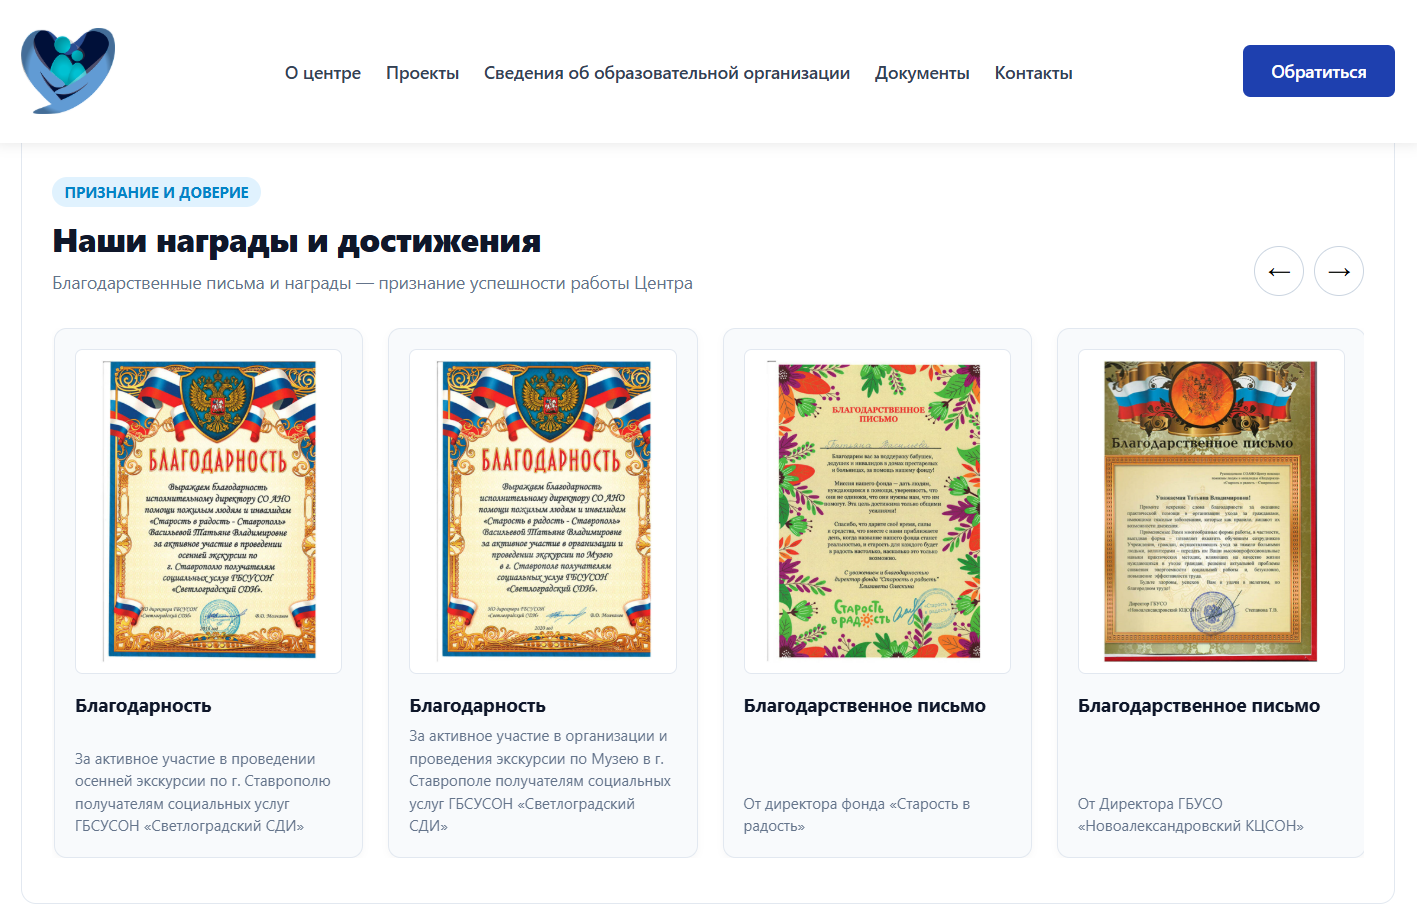
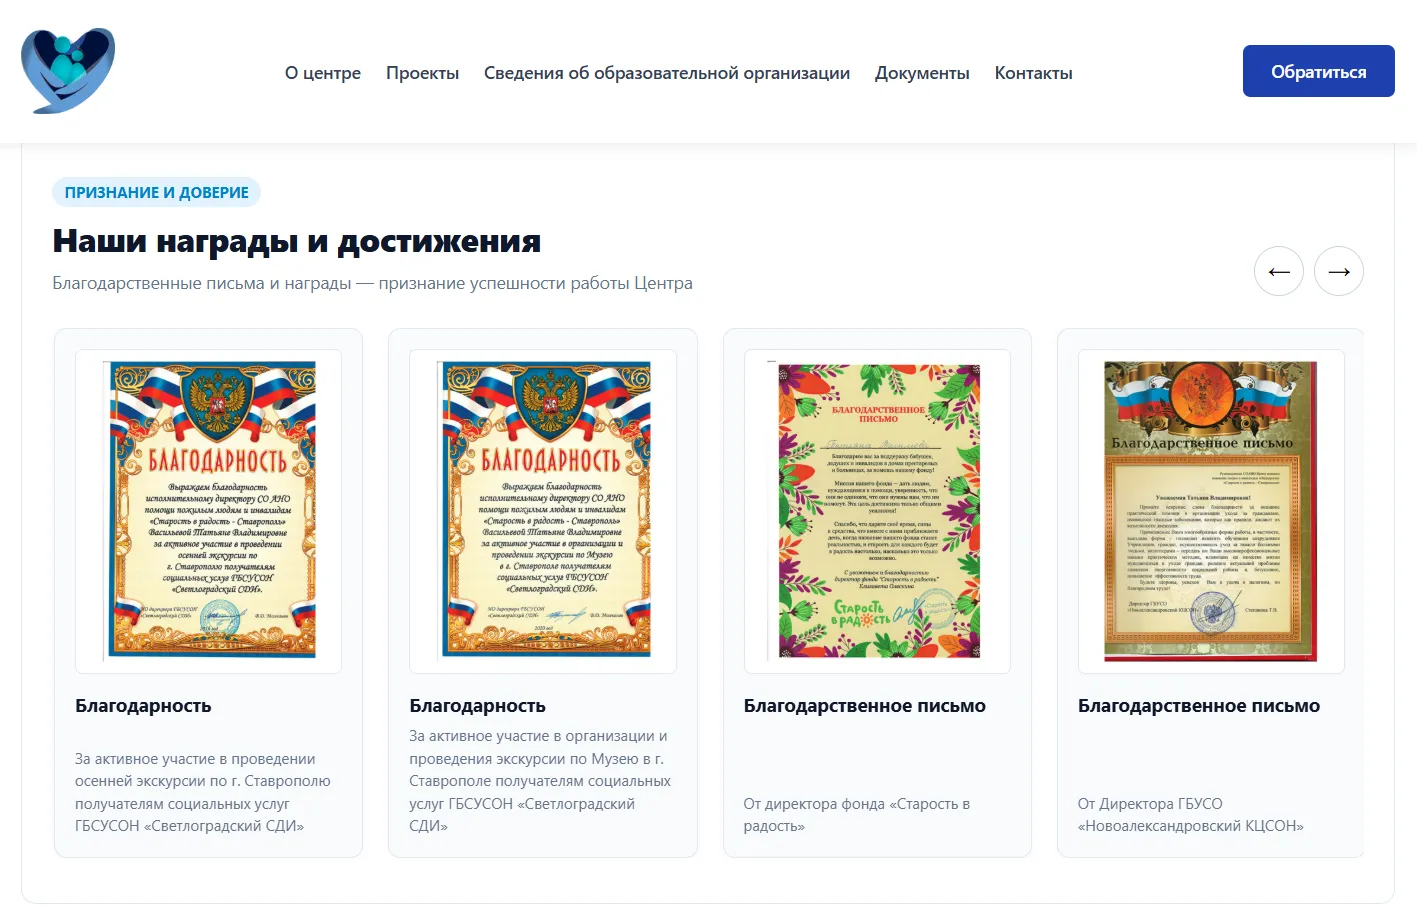
Crafting-web (in progress v0.21.1)

diff --git a/src/components/ProjectModal.tsx b/src/components/ProjectModal.tsx
@@ -33,27 +33,28 @@ export const ProjectModal: React.FC<ProjectModalProps> = ({ project, onClose, on
       '/projects/portfolio-2.webp',
       '/projects/portfolio-3.webp',
       '/projects/portfolio-4.webp',
-      '/projects/portfolio-5.webp',
-      '/projects/portfolio-6.webp',
-      '/projects/portfolio-mobile.webp',
     ],
     'nonprofit-redesign': [
       '/projects/nonprofit.webp',
       '/projects/nonprofit-1.webp',
       '/projects/nonprofit-2.webp',
       '/projects/nonprofit-3.webp',
-      '/projects/nonprofit-4.webp',
-      '/projects/nonprofit-5.webp',
-      '/projects/nonprofit-6.webp',
-      '/projects/nonprofit-mobile.webp',
     ],
     'wine-coop': [
-      '/projects/wine-coop.webp',
-      '/projects/wine-coop-1.webp',
+      '/projects/intuitivo.webp',
+      '/projects/intuitivo-1.webp',
+      '/projects/intuitivo-2.webp',
+      '/projects/intuitivo-3.webp',
+      '/projects/intuitivo-4.webp',
+      '/projects/intuitivo-5.webp',
     ],
     'driving-center': [
-      '/projects/driving-center.webp',
-      '/projects/driving-center-1.webp',
+      '/projects/driftet.webp',
+      '/projects/driftet-1.webp',
+      '/projects/driftet-2.webp',
+      '/projects/driftet-3.webp',
+      '/projects/driftet-4.webp',
+      '/projects/driftet-5.webp',
     ],
   };
 
